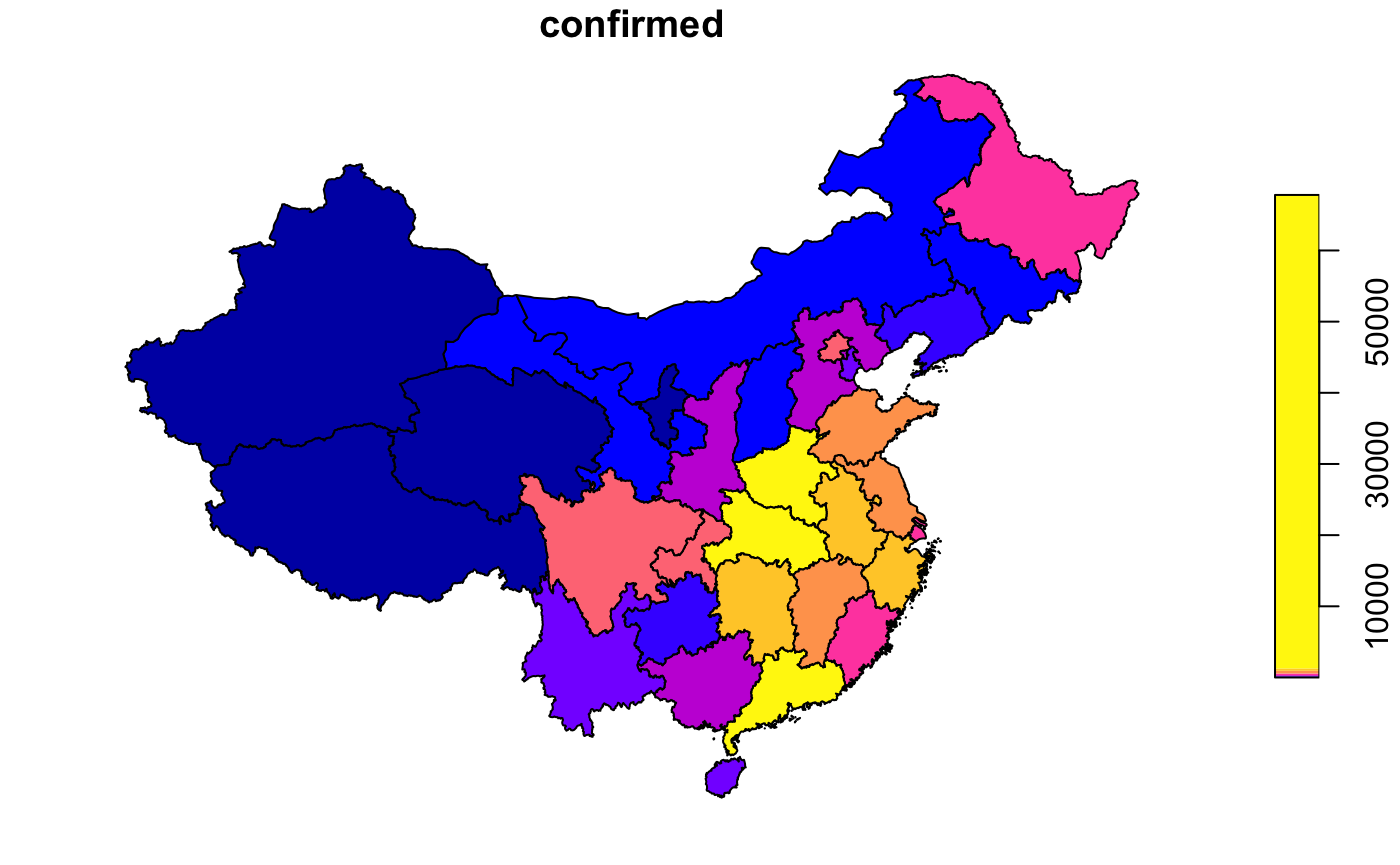
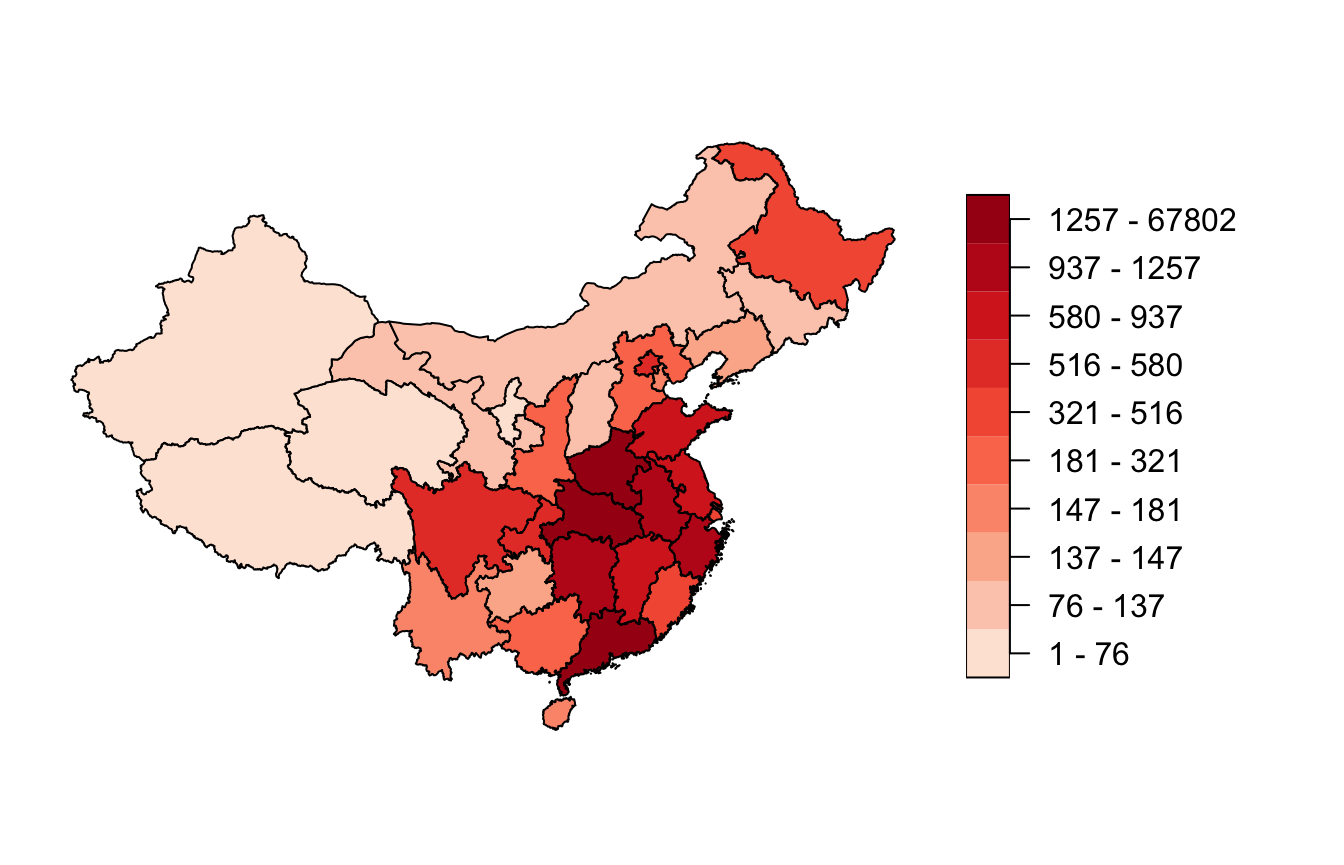
update docs/ outputs

diff --git a/docs/articles/visualisation_china.html b/docs/articles/visualisation_china.html
@@ -261,8 +261,100 @@
 <div id="plot-epidemiology-total-confirmed" class="section level2">
 <h2 class="hasAnchor">
 <a href="#plot-epidemiology-total-confirmed" class="anchor"></a>Plot epidemiology total confirmed</h2>
-<div class="sourceCode" id="cb8"><html><body><pre class="r"><span class="fu"><a href="https://rdrr.io/pkg/sf/man/plot.html">plot</a></span>(<span class="no">chn_recent_region</span>[<span class="st">"confirmed"</span>], <span class="kw">nbreaks</span> <span class="kw">=</span> <span class="fl">10</span>, <span class="kw">breaks</span> <span class="kw">=</span> <span class="st">"quantile"</span>)</pre></body></html></div>
-<p><img src="visualisation_china_files/figure-html/example5a-1.png" width="700"></p>
+<div class="sourceCode" id="cb8"><html><body><pre class="r"><span class="no">chn_recent_region</span> <span class="kw">&lt;-</span> <span class="no">chn_recent_region</span> <span class="kw">%&gt;%</span>
+  <span class="fu"><a href="https://dplyr.tidyverse.org/reference/mutate.html">mutate</a></span>(<span class="kw">confirmed_class</span> <span class="kw">=</span> <span class="fu"><a href="https://rdrr.io/r/base/cut.html">cut</a></span>(<span class="no">chn_recent_region</span>$<span class="no">confirmed</span>,
+                               <span class="kw">breaks</span> <span class="kw">=</span> <span class="fu"><a href="https://rdrr.io/r/stats/quantile.html">quantile</a></span>(<span class="kw">x</span> <span class="kw">=</span> <span class="no">chn_recent_region</span>$<span class="no">confirmed</span>,
+                                                 <span class="kw">probs</span> <span class="kw">=</span> <span class="fu"><a href="https://rdrr.io/r/base/seq.html">seq</a></span>(<span class="kw">from</span> <span class="kw">=</span> <span class="fl">0</span>,
+                                                             <span class="kw">to</span> <span class="kw">=</span> <span class="fl">1</span>,
+                                                             <span class="kw">by</span> <span class="kw">=</span> <span class="fl">0.1</span>)),
+                               <span class="kw">include.lowest</span> <span class="kw">=</span> <span class="fl">TRUE</span>))
+
+<span class="fu"><a href="https://rdrr.io/r/base/levels.html">levels</a></span>(<span class="no">chn_recent_region</span>$<span class="no">confirmed_class</span>) <span class="kw">&lt;-</span> <span class="fu"><a href="https://rdrr.io/r/base/levels.html">levels</a></span>(<span class="no">chn_recent_region</span>$<span class="no">confirmed_class</span>) <span class="kw">%&gt;%</span>
+  <span class="kw pkg">stringr</span><span class="kw ns">::</span><span class="fu"><a href="https://stringr.tidyverse.org/reference/str_replace.html">str_replace_all</a></span>(<span class="kw">pattern</span> <span class="kw">=</span> <span class="st">","</span>, <span class="kw">replacement</span> <span class="kw">=</span> <span class="st">" - "</span>) <span class="kw">%&gt;%</span>
+  <span class="kw pkg">stringr</span><span class="kw ns">::</span><span class="fu"><a href="https://stringr.tidyverse.org/reference/str_replace.html">str_replace_all</a></span>(<span class="kw">pattern</span> <span class="kw">=</span> <span class="st">"1.26e\\+03"</span>, <span class="kw">replacement</span> <span class="kw">=</span> <span class="st">"1257"</span>) <span class="kw">%&gt;%</span>
+  <span class="kw pkg">stringr</span><span class="kw ns">::</span><span class="fu"><a href="https://stringr.tidyverse.org/reference/str_replace.html">str_replace_all</a></span>(<span class="kw">pattern</span> <span class="kw">=</span> <span class="st">"6.78e\\+04"</span>, <span class="kw">replacement</span> <span class="kw">=</span> <span class="st">"67802"</span>) <span class="kw">%&gt;%</span>
+  <span class="kw pkg">stringr</span><span class="kw ns">::</span><span class="fu"><a href="https://stringr.tidyverse.org/reference/str_remove.html">str_remove_all</a></span>(<span class="kw">pattern</span> <span class="kw">=</span> <span class="st">"\\[|\\]|\\("</span>)
+
+<span class="fu"><a href="https://rdrr.io/pkg/sf/man/plot.html">plot</a></span>(<span class="no">chn_recent_region</span>[<span class="st">"confirmed_class"</span>],
+     <span class="kw">main</span> <span class="kw">=</span> <span class="st">""</span>,
+     <span class="kw">pal</span> <span class="kw">=</span> <span class="fu"><a href="https://rdrr.io/r/grDevices/colorRamp.html">colorRampPalette</a></span>(<span class="kw">colors</span> <span class="kw">=</span> <span class="kw pkg">RColorBrewer</span><span class="kw ns">::</span><span class="fu"><a href="https://rdrr.io/pkg/RColorBrewer/man/ColorBrewer.html">brewer.pal</a></span>(<span class="kw">n</span> <span class="kw">=</span> <span class="fl">5</span>,
+                                                              <span class="kw">name</span> <span class="kw">=</span> <span class="st">"Reds"</span>))(<span class="fl">10</span>),
+     <span class="kw">nbreaks</span> <span class="kw">=</span> <span class="fl">10</span>,
+     <span class="kw">breaks</span> <span class="kw">=</span> <span class="st">"quantile"</span>,
+     <span class="kw">key.width</span> <span class="kw">=</span> <span class="fu"><a href="https://rdrr.io/r/graphics/layout.html">lcm</a></span>(<span class="fl">5</span>))</pre></body></html></div>
+<p><img src="visualisation_china_files/figure-html/example5a-1.png" width="672" style="display: block; margin: auto;"></p>
+</div>
+<div id="plot-epidemiology-total-death" class="section level2">
+<h2 class="hasAnchor">
+<a href="#plot-epidemiology-total-death" class="anchor"></a>Plot epidemiology total death</h2>
+<div class="sourceCode" id="cb9"><html><body><pre class="r"><span class="no">chn_recent_region</span> <span class="kw">&lt;-</span> <span class="no">chn_recent_region</span> <span class="kw">%&gt;%</span>
+  <span class="fu"><a href="https://dplyr.tidyverse.org/reference/mutate.html">mutate</a></span>(<span class="kw">dead_class</span> <span class="kw">=</span> <span class="fu"><a href="https://rdrr.io/r/base/cut.html">cut</a></span>(<span class="no">chn_recent_region</span>$<span class="no">dead</span>,
+                               <span class="kw">breaks</span> <span class="kw">=</span> <span class="fu"><a href="https://rdrr.io/r/base/unique.html">unique</a></span>(<span class="fu"><a href="https://rdrr.io/r/stats/quantile.html">quantile</a></span>(<span class="kw">x</span> <span class="kw">=</span> <span class="no">chn_recent_region</span>$<span class="no">dead</span>,
+                                                <span class="kw">probs</span> <span class="kw">=</span> <span class="fu"><a href="https://rdrr.io/r/base/seq.html">seq</a></span>(<span class="kw">from</span> <span class="kw">=</span> <span class="fl">0</span>,
+                                                            <span class="kw">to</span> <span class="kw">=</span> <span class="fl">1</span>,
+                                                            <span class="kw">by</span> <span class="kw">=</span> <span class="fl">0.1</span>),
+                                                 <span class="kw">na.rm</span> <span class="kw">=</span> <span class="fl">TRUE</span>)),
+                               <span class="kw">include.lowest</span> <span class="kw">=</span> <span class="fl">TRUE</span>))
+
+<span class="fu"><a href="https://rdrr.io/r/base/levels.html">levels</a></span>(<span class="no">chn_recent_region</span>$<span class="no">dead_class</span>) <span class="kw">&lt;-</span> <span class="fu"><a href="https://rdrr.io/r/base/levels.html">levels</a></span>(<span class="no">chn_recent_region</span>$<span class="no">dead_class</span>) <span class="kw">%&gt;%</span>
+  <span class="kw pkg">stringr</span><span class="kw ns">::</span><span class="fu"><a href="https://stringr.tidyverse.org/reference/str_replace.html">str_replace_all</a></span>(<span class="kw">pattern</span> <span class="kw">=</span> <span class="st">","</span>, <span class="kw">replacement</span> <span class="kw">=</span> <span class="st">" - "</span>) <span class="kw">%&gt;%</span>
+  <span class="kw pkg">stringr</span><span class="kw ns">::</span><span class="fu"><a href="https://stringr.tidyverse.org/reference/str_replace.html">str_replace_all</a></span>(<span class="kw">pattern</span> <span class="kw">=</span> <span class="st">"3.19e\\+03"</span>, <span class="kw">replacement</span> <span class="kw">=</span> <span class="st">"3193"</span>) <span class="kw">%&gt;%</span>
+  <span class="kw pkg">stringr</span><span class="kw ns">::</span><span class="fu"><a href="https://stringr.tidyverse.org/reference/str_remove.html">str_remove_all</a></span>(<span class="kw">pattern</span> <span class="kw">=</span> <span class="st">"\\[|\\]|\\("</span>)
+
+<span class="fu"><a href="https://rdrr.io/pkg/sf/man/plot.html">plot</a></span>(<span class="no">chn_recent_region</span>[<span class="st">"dead_class"</span>],
+     <span class="kw">main</span> <span class="kw">=</span> <span class="st">""</span>,
+     <span class="kw">pal</span> <span class="kw">=</span> <span class="fu"><a href="https://rdrr.io/r/grDevices/colorRamp.html">colorRampPalette</a></span>(<span class="kw">colors</span> <span class="kw">=</span> <span class="kw pkg">RColorBrewer</span><span class="kw ns">::</span><span class="fu"><a href="https://rdrr.io/pkg/RColorBrewer/man/ColorBrewer.html">brewer.pal</a></span>(<span class="kw">n</span> <span class="kw">=</span> <span class="fl">5</span>,
+                                                              <span class="kw">name</span> <span class="kw">=</span> <span class="st">"Reds"</span>))(<span class="fl">7</span>),
+     <span class="kw">nbreaks</span> <span class="kw">=</span> <span class="fl">7</span>,
+     <span class="kw">breaks</span> <span class="kw">=</span> <span class="st">"quantile"</span>,
+     <span class="kw">key.width</span> <span class="kw">=</span> <span class="fu"><a href="https://rdrr.io/r/graphics/layout.html">lcm</a></span>(<span class="fl">5</span>))</pre></body></html></div>
+<p><img src="visualisation_china_files/figure-html/example6a-1.png" width="672" style="display: block; margin: auto;"></p>
+</div>
+<div id="check-monotonicity-of-data---confirmed" class="section level2">
+<h2 class="hasAnchor">
+<a href="#check-monotonicity-of-data---confirmed" class="anchor"></a>Check monotonicity of data - confirmed</h2>
+<div class="sourceCode" id="cb10"><html><body><pre class="r"><span class="fu"><a href="https://rdrr.io/r/base/library.html">library</a></span>(<span class="no">ggplot2</span>)
+
+<span class="fu"><a href="../reference/connect_oxcovid19.html">connect_oxcovid19</a></span>() <span class="kw">%&gt;%</span>
+  <span class="fu"><a href="../reference/get_table.html">get_table</a></span>(<span class="kw">tbl_name</span> <span class="kw">=</span> <span class="st">"epidemiology"</span>) <span class="kw">%&gt;%</span>
+  <span class="fu"><a href="https://dplyr.tidyverse.org/reference/filter.html">filter</a></span>(<span class="no">source</span> <span class="kw">==</span> <span class="st">"CHN_ICL"</span>,
+         !<span class="fu"><a href="https://rdrr.io/r/base/NA.html">is.na</a></span>(<span class="no">adm_area_1</span>)) <span class="kw">%&gt;%</span>
+  <span class="fu"><a href="https://dplyr.tidyverse.org/reference/arrange.html">arrange</a></span>(<span class="fu"><a href="https://dplyr.tidyverse.org/reference/desc.html">desc</a></span>(<span class="no">date</span>)) <span class="kw">%&gt;%</span>
+  <span class="fu"><a href="https://ggplot2.tidyverse.org/reference/ggplot.html">ggplot</a></span>(<span class="kw">mapping</span> <span class="kw">=</span> <span class="fu"><a href="https://ggplot2.tidyverse.org/reference/aes.html">aes</a></span>(<span class="kw">x</span> <span class="kw">=</span> <span class="no">date</span>, <span class="kw">y</span> <span class="kw">=</span> <span class="no">confirmed</span>)) +
+  <span class="fu"><a href="https://ggplot2.tidyverse.org/reference/geom_path.html">geom_line</a></span>() +
+  <span class="fu"><a href="https://ggplot2.tidyverse.org/reference/facet_wrap.html">facet_wrap</a></span>( ~ <span class="no">adm_area_1</span>, <span class="kw">ncol</span> <span class="kw">=</span> <span class="fl">4</span>)</pre></body></html></div>
+<p><img src="visualisation_china_files/figure-html/example7a-1.png" width="960" style="display: block; margin: auto;"></p>
+<div class="sourceCode" id="cb11"><html><body><pre class="r"><span class="fu"><a href="../reference/connect_oxcovid19.html">connect_oxcovid19</a></span>() <span class="kw">%&gt;%</span>
+  <span class="fu"><a href="../reference/get_table.html">get_table</a></span>(<span class="kw">tbl_name</span> <span class="kw">=</span> <span class="st">"epidemiology"</span>) <span class="kw">%&gt;%</span>
+  <span class="fu"><a href="https://dplyr.tidyverse.org/reference/filter.html">filter</a></span>(<span class="no">source</span> <span class="kw">==</span> <span class="st">"CHN_ICL"</span>,
+         !<span class="fu"><a href="https://rdrr.io/r/base/NA.html">is.na</a></span>(<span class="no">adm_area_1</span>)) <span class="kw">%&gt;%</span>
+  <span class="fu"><a href="https://dplyr.tidyverse.org/reference/arrange.html">arrange</a></span>(<span class="fu"><a href="https://dplyr.tidyverse.org/reference/desc.html">desc</a></span>(<span class="no">date</span>)) <span class="kw">%&gt;%</span>
+  <span class="fu"><a href="https://ggplot2.tidyverse.org/reference/ggplot.html">ggplot</a></span>(<span class="kw">mapping</span> <span class="kw">=</span> <span class="fu"><a href="https://ggplot2.tidyverse.org/reference/aes.html">aes</a></span>(<span class="kw">x</span> <span class="kw">=</span> <span class="no">date</span>, <span class="kw">y</span> <span class="kw">=</span> <span class="no">confirmed</span>)) +
+  <span class="fu"><a href="https://ggplot2.tidyverse.org/reference/geom_path.html">geom_line</a></span>() +
+  <span class="fu"><a href="https://ggplot2.tidyverse.org/reference/facet_wrap.html">facet_wrap</a></span>( ~ <span class="no">adm_area_1</span>, <span class="kw">ncol</span> <span class="kw">=</span> <span class="fl">4</span>, <span class="kw">scales</span> <span class="kw">=</span> <span class="st">"free_y"</span>)</pre></body></html></div>
+<p><img src="visualisation_china_files/figure-html/example7b-1.png" width="960" style="display: block; margin: auto;"></p>
+</div>
+<div id="check-monotonicity-of-data---dead" class="section level2">
+<h2 class="hasAnchor">
+<a href="#check-monotonicity-of-data---dead" class="anchor"></a>Check monotonicity of data - dead</h2>
+<div class="sourceCode" id="cb12"><html><body><pre class="r"><span class="fu"><a href="../reference/connect_oxcovid19.html">connect_oxcovid19</a></span>() <span class="kw">%&gt;%</span>
+  <span class="fu"><a href="../reference/get_table.html">get_table</a></span>(<span class="kw">tbl_name</span> <span class="kw">=</span> <span class="st">"epidemiology"</span>) <span class="kw">%&gt;%</span>
+  <span class="fu"><a href="https://dplyr.tidyverse.org/reference/filter.html">filter</a></span>(<span class="no">source</span> <span class="kw">==</span> <span class="st">"CHN_ICL"</span>,
+         !<span class="fu"><a href="https://rdrr.io/r/base/NA.html">is.na</a></span>(<span class="no">adm_area_1</span>)) <span class="kw">%&gt;%</span>
+  <span class="fu"><a href="https://dplyr.tidyverse.org/reference/arrange.html">arrange</a></span>(<span class="fu"><a href="https://dplyr.tidyverse.org/reference/desc.html">desc</a></span>(<span class="no">date</span>)) <span class="kw">%&gt;%</span>
+  <span class="fu"><a href="https://ggplot2.tidyverse.org/reference/ggplot.html">ggplot</a></span>(<span class="kw">mapping</span> <span class="kw">=</span> <span class="fu"><a href="https://ggplot2.tidyverse.org/reference/aes.html">aes</a></span>(<span class="kw">x</span> <span class="kw">=</span> <span class="no">date</span>, <span class="kw">y</span> <span class="kw">=</span> <span class="no">dead</span>)) +
+  <span class="fu"><a href="https://ggplot2.tidyverse.org/reference/geom_path.html">geom_line</a></span>() +
+  <span class="fu"><a href="https://ggplot2.tidyverse.org/reference/facet_wrap.html">facet_wrap</a></span>( ~ <span class="no">adm_area_1</span>, <span class="kw">ncol</span> <span class="kw">=</span> <span class="fl">4</span>)</pre></body></html></div>
+<p><img src="visualisation_china_files/figure-html/example8a-1.png" width="960" style="display: block; margin: auto;"></p>
+<div class="sourceCode" id="cb13"><html><body><pre class="r"><span class="fu"><a href="../reference/connect_oxcovid19.html">connect_oxcovid19</a></span>() <span class="kw">%&gt;%</span>
+  <span class="fu"><a href="../reference/get_table.html">get_table</a></span>(<span class="kw">tbl_name</span> <span class="kw">=</span> <span class="st">"epidemiology"</span>) <span class="kw">%&gt;%</span>
+  <span class="fu"><a href="https://dplyr.tidyverse.org/reference/filter.html">filter</a></span>(<span class="no">source</span> <span class="kw">==</span> <span class="st">"CHN_ICL"</span>,
+         !<span class="fu"><a href="https://rdrr.io/r/base/NA.html">is.na</a></span>(<span class="no">adm_area_1</span>)) <span class="kw">%&gt;%</span>
+  <span class="fu"><a href="https://dplyr.tidyverse.org/reference/arrange.html">arrange</a></span>(<span class="fu"><a href="https://dplyr.tidyverse.org/reference/desc.html">desc</a></span>(<span class="no">date</span>)) <span class="kw">%&gt;%</span>
+  <span class="fu"><a href="https://ggplot2.tidyverse.org/reference/ggplot.html">ggplot</a></span>(<span class="kw">mapping</span> <span class="kw">=</span> <span class="fu"><a href="https://ggplot2.tidyverse.org/reference/aes.html">aes</a></span>(<span class="kw">x</span> <span class="kw">=</span> <span class="no">date</span>, <span class="kw">y</span> <span class="kw">=</span> <span class="no">dead</span>)) +
+  <span class="fu"><a href="https://ggplot2.tidyverse.org/reference/geom_path.html">geom_line</a></span>() +
+  <span class="fu"><a href="https://ggplot2.tidyverse.org/reference/facet_wrap.html">facet_wrap</a></span>( ~ <span class="no">adm_area_1</span>, <span class="kw">ncol</span> <span class="kw">=</span> <span class="fl">4</span>, <span class="kw">scales</span> <span class="kw">=</span> <span class="st">"free_y"</span>)</pre></body></html></div>
+<p><img src="visualisation_china_files/figure-html/example8b-1.png" width="960" style="display: block; margin: auto;"></p>
 </div>
   </div>
 
